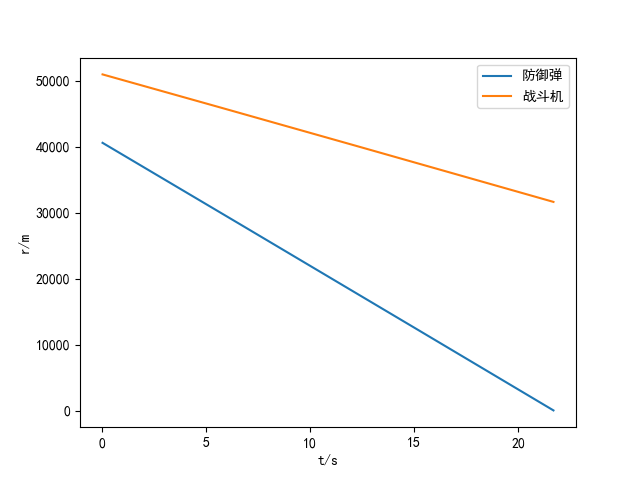
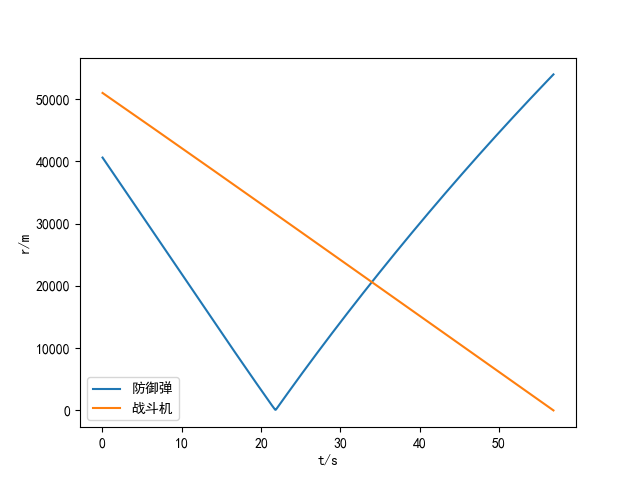
哈哈，我是sb，前面建模错了

diff --git a/MyEnvs.py b/MyEnvs.py
@@ -169,7 +169,7 @@ class relative:
                         self.chaser.velocity * (sin(self.theta) * cos(self.q_y) -
                                             cos(self.theta) * sin(self.q_y) * cos(self.psi - self.q_z)))/self.r
         
-        self.dq_z = (self.target.velocity * cos(self.target.theta) * sin(self.psi - self.q_z) -
+        self.dq_z = (self.target.velocity * cos(self.target.theta) * sin(self.target.psi - self.q_z) -
                         self.chaser.velocity * cos(self.theta) * sin(self.psi - self.q_z))/(self.r * cos(self.q_y))
         
 
@@ -289,7 +289,8 @@ class FighterEnv(gym.Env):
 
         self.state = np.array([r_1 , q_y1 , q_z1 , r_2 , q_y2 , q_z2])
         # 存档
-        self.saves = {"figher":copy.deepcopy(self.fighter),"defender":copy.deepcopy(self.defender),"state":copy.deepcopy(self.state)}
+        self.saves = {"figher":copy.deepcopy(self.fighter),"defender":copy.deepcopy(self.defender)
+                      ,"state":copy.deepcopy(self.state),"FD":copy.deepcopy(self.FD),"FT":copy.deepcopy(self.FT)}
 
         # 初始化成功突防标志
         self.success = False
@@ -353,13 +354,13 @@ class FighterEnv(gym.Env):
     def reset(self , seed=None, options=None):
         # 重置环境，返回初始状态
         # 初始化战斗机、防御弹和目标参数（速度、位置、制导律等）
-        if not self.Isprint:
-            self.fighter = copy.deepcopy(self.saves["figher"])
-            self.defender = copy.deepcopy(self.saves["defender"])
-            self.state = copy.deepcopy(self.saves["state"])
+        self.fighter = copy.deepcopy(self.saves["figher"])
+        self.defender = copy.deepcopy(self.saves["defender"])
+        self.state = copy.deepcopy(self.saves["state"])
+        
             
-            self.FD = relative(self.defender, self.fighter)
-            self.FT = relative(self.fighter, self.target)
+        self.FD = copy.deepcopy(self.saves["FD"])
+        self.FT = copy.deepcopy(self.saves["FT"])
         self.t = self.t_0
 
         self.success =False
@@ -565,7 +566,8 @@ class FighterEnv_2D(FighterEnv):
 
         self.state = np.array([r_1  , q_z1 , r_2  , q_z2])
         # 存档
-        self.saves = {"figher":copy.deepcopy(self.fighter),"defender":copy.deepcopy(self.defender),"state":copy.deepcopy(self.state)}
+        self.saves = {"figher":copy.deepcopy(self.fighter),"defender":copy.deepcopy(self.defender)
+                      ,"state":copy.deepcopy(self.state),"FD":copy.deepcopy(self.FD),"FT":copy.deepcopy(self.FT)}
 
         # 初始化成功突防标志
         self.success = False
@@ -596,11 +598,12 @@ class FighterEnv_2D(FighterEnv):
         self.FT.dtheta = self.a_y/self.fighter.velocity
         self.FT.dpsi = -self.a_z/(self.fighter.velocity * cos(self.fighter.theta))
 
+        self.FT.simulate(self.dt)
         
         self.FD.proportional_navigation()
 
         self.FD.simulate(self.dt)
-        self.FT.simulate(self.dt)
+        
 
         
 
@@ -640,13 +643,14 @@ class FighterEnv_nopolicy(FighterEnv):
             self.FD.proportional_navigation()          
             
             self.FD.simulate(self.dt)
-            self.FT.simulate(self.dt) 
+            self.FT.simulate(self.dt)
+             
             
             
-
+            self.t += self.dt
 
             if self.Isprint:
-                self.t += self.dt
+                
                 # 加入观察数据
                 self.calculate_eta()
                 self.update_plotdata()

diff --git a/GAIL_PPO.py b/GAIL_PPO.py
@@ -10,19 +10,19 @@ import numpy as np
 
 
 class expert_generator:
-    def __init__(self , FD:relative , FT:relative , t_0):
+    def __init__(self , FD:relative , FT:relative , t_0 ,c_f):
 
         self.t_0 = t_0
         self.FD = FD
         self.FT = FT
         self.c_0 = self.FD.dq_z
+        self.t_f = t_0 - FD.r / FD.dr -1
+        self.c_f = c_f
 
 
-    def generate(self ,t , c_f):
-        t_go =  - self.FD.r / self.FD.dr
-        t_f = t + t_go - 0.7
+    def generate(self ,t):
         
-        if t < t_f:
+        if t < self.t_f:
 
             k_FD = self.FD.dr / self.FD.r
             r_FD = self.FD.r
@@ -33,8 +33,8 @@ class expert_generator:
             
             
 
-            a_E1 = 2 * k_FD * r_FD * exp(k_FD *(t_f - t)) / (1-exp(2*k_FD *(t_f - self.t_0)))
-            a_E2 = (self.c_0 * exp(k_FD * (t_f - self.t_0)) - c_f) / cos(q_FD - psi_VF)
+            a_E1 = 2 * k_FD * r_FD * exp(k_FD *(self.t_f - t)) / (1-exp(2*k_FD *(self.t_f - self.t_0)))
+            a_E2 = (self.c_0 * exp(k_FD * (self.t_f - self.t_0)) - self.c_f) / cos(q_FD - psi_VF)
 
             a_E = a_E1 * a_E2 / (9.81*2)
 

diff --git a/expert_test.py b/expert_test.py
@@ -8,23 +8,25 @@ plt.rcParams['font.sans-serif'] = ['SimHei']  # 指定默认字体
 plt.rcParams['axes.unicode_minus'] = False  # 解决保存图像时负号'-'显示为方块的问题
 
 
-myenv = FighterEnv_2D(True,Dt = 0.01 ,dt = 0.01)
+myenv = FighterEnv_2D(False,Dt = 0.01 ,dt = 0.01)
 
 
 
 target_c_f = 0
-c_f = 1
-while c_f > -1:
+c_f = 3
+while c_f > -3:
     obs , _ = myenv.reset()
-    expert = expert_generator(myenv.FD , myenv.FT , myenv.t_0)
+    expert = expert_generator(myenv.FD , myenv.FT , myenv.t_0 , c_f )
     while not (myenv.success or myenv.fail):
-        a_E = expert.generate(myenv.t , c_f)
+        a_E = expert.generate(myenv.t)
         action = np.array([a_E])
         obs, rewards, dones, _ , _ = myenv.step(action)
-    if rewards >49:
+    print(myenv.FD.dq_z)
+    if rewards >30:
         target_c_f = c_f
+        print(target_c_f)
         break
-    c_f -= 0.00001
+    c_f -= 0.1
 
 
 print(target_c_f)

diff --git a/README.md b/README.md
@@ -32,3 +32,10 @@
 ![PPO三维仿真/弹道偏角图](fig/PPO三维仿真/弹道偏角图.png)
 ![PPO三维仿真/纵向加速度图](fig/PPO三维仿真/纵向加速度图.png)
 ![PPO三维仿真/侧向加速度图](fig/PPO三维仿真/侧向加速度图.png)
+
+
+
+## GAIL-PPO训练突防网络
+
+### 专家策略构建
+
